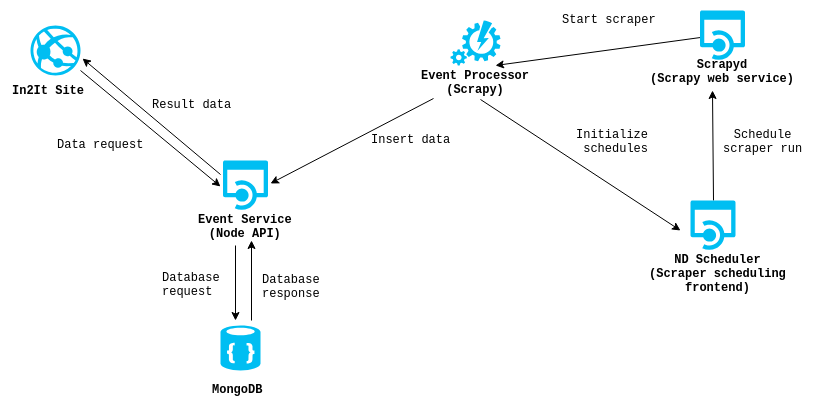
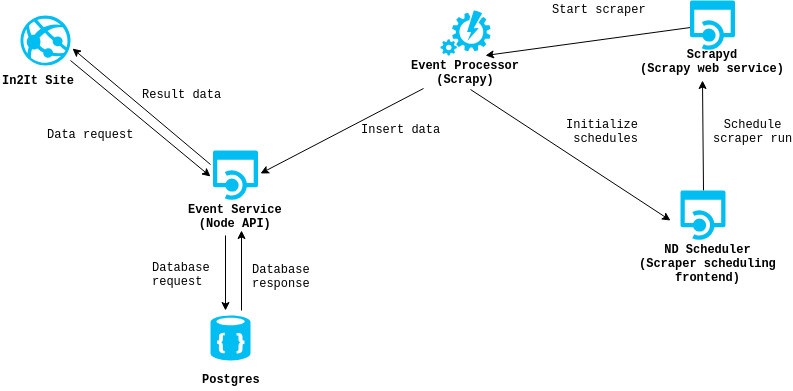
Updated readme, fixed debugging for ndscheduler

diff --git a/readme.md b/readme.md
@@ -26,6 +26,8 @@ View these docs [here](https://clipboardproject.github.io/ClipboardApp/) if you 
 ### Get the Code
 Clone the ClipboardApp repository into your preferred directory with Git Bash on Windows or a normal terminal otherwise: `git clone https://github.com/ClipboardProject/ClipboardApp.git`
 
+If you have any issues, see the troubleshooting guide further down in this document.
+
 ### Install Docker
 For Windows Home, download from [here](https://docs.docker.com/toolbox/toolbox_install_windows/). Documentation is [here](https://docs.docker.com/toolbox/overview/).  
 For Windows Professional or Enterprise, download from [here](https://www.docker.com/docker-windows). Documentation is [here](https://docs.docker.com/docker-for-windows/).  
@@ -81,10 +83,10 @@ Close and reopen your terminal(s) to apply the changes.
 #### Extra Installation Steps for Windows
 I was unable to get Kitematic to work on Docker Toolbox, so I would recommend skipping that. Make sure virtualization is enabled in the BIOS. If you need to change virtualization settings, do a full reboot cycle,
 otherwise Windows may not report that the settings have changed. If you're running Windows 10 Professional, you'll need to make sure Hyper-V is enabled in the "Turn Windows Features On or Off" dialog.
-If you're using Docker Toolbox on Windows Home edition, you'll want to start the VirtualBox instance manually before starting Docker every time or Docker will complain about not having an IP address.
+__IMPORTANT: If you're using Docker Toolbox on Windows Home edition, you'll want to start the VirtualBox instance manually before starting Docker every time or Docker will complain about not having an IP address.__
 
 Additionally, once Docker is installed, you'll need to tweak the VirtualBox settings slightly. Port forwarding must be configured manually to allow the host system to communicate with Docker over `localhost`
-instead of `192.168.99.100`.
+instead of its defualt IP of `192.168.99.100`.
 First, right click on the machine title "default" and select "Settings".
 ![Settings](images/settings.png?raw=true "Settings")
 
@@ -92,13 +94,13 @@ Once in the settings menu, select "Network" and then "Port Forwarding".
 ![Network](images/network.png?raw=true "Network")
 
 Finally, click the green plus on the top right corner and add a new port forwarding rule. The new rule should be configured exactly like "Rule 1" in the following picture, but you can name it whatever.
-This is the minimum amount of configuration needed for the application to work, but you can add the other ports used by the application later if you'd like to be able to connect to everything via `localhost`.
+This is the minimum amount of configuration needed for the application to work, but you can add the other ports used by the application if you'd like to be able to connect to everything via `localhost`. Other ports used by this application are `3000`, `9000`, `5000`, `7000`, and `6800` if you would like to add those now.
 ![PortForwaring](images/portforwarding.png?raw=true "Port Forwarding")
 
 ### Setting Up Docker
 If you are using Linux, all of the subsequent Docker commands in this guide might have to be run with `sudo`. 
 If you would like to be able to use Docker without `sudo`, look through the answers [here](https://askubuntu.com/questions/477551/how-can-i-use-docker-without-sudo). **If you're using Docker Toolbox on Windows Home, 
-all subsequent statements that mention `localhost` should be replaced with `192.168.99.100`**. This is because the Docker engine can't bind to localhost when using Docker Toolbox.
+all subsequent statements that mention `localhost` should be replaced with `192.168.99.100` unless you set up port forwarding for all of the ports mentioned in the previous step**.
 
 Verify that Docker installed correctly with: `docker run hello-world`. You should see, "Hello from Docker!"
 
@@ -111,23 +113,21 @@ from your system's package manager. If your Python version is too old, I recomme
 
 Once Python is set up, run `scripts/install.sh` from the root of the Github repo to install necessary Python dependencies.
 
-Open a Docker terminal on Windows Home, Git Bash or some kind of bash emulator on Windows Professional, or a normal terminal otherwise, and `cd` into the Git repo. Run `./start.bash`. 
-If you get a permissions error, you may need to run `chmod +x start.bash`. This will grant execution permissions to the file. 
+Open a Docker terminal on Windows Home, Git Bash or some kind of bash emulator on Windows Professional, or a normal terminal otherwise, and `cd` into the Git repo. If on Windows, it's probably a good idea to run `scripts/fix-bad-characters.bash` first because Docker behaves strangely when Windows-specific characters are sent to it. You may need to run this again in the future if more Windows characters make it into your files. 
+
+Now, run `./start.sh`. If you get a permissions error, you may need to run `chmod +x start.sh`. This will grant execution permissions to the file. 
 If all goes well, the database will be created, the scrapers will start running, and the website will start up. This process will take some time.
 Eventually, you should start seeing messages about events being saved. Once a message says `Data retrieved successfully`, the code is done running. 
 Several components should be visible now:
 - `localhost` and `localhost:3000` will show the site
 - `localhost:5000/docs` will show a frontend for viewing the data and testing the API
 - `localhost:9000` will show a frontend for managing the Docker containers. Create whatever username and password you want.
+-  `localhost:7000` will show a frontend for managing the Postgres database. The username is `user@domain.com` and the password is `pgadmin`. Instructions on how to connect to the database will be given later in this document.
 
 ### System Architecture
 ![System Architecture](images/In2ItArchitecture.png?raw=true "System Architecture")
 
 ### Setting up your development environment
-
-If you want to see more details about the data in the database, download NoSQL Booster from [here](https://nosqlbooster.com/downloads). You can use another MongoDB client if you'd prefer. Create a connection to `localhost:27017` and 
-you should see the data show up. 
-
 For debugging, we've set up configurations to allow for remote debugging in Docker using VS Code. This allows you to set breakpoints and step through code remotely while it's running in Docker.
 You can use another editor if you'd like, but you'll have to set up remote debugging yourself. Whenever you open VS Code, it creates a directory called `.vscode` which stores local configurations.
 
@@ -141,25 +141,47 @@ the folder structure of the remote and local repository to match. To do so, you 
 
 Once you have VS Code open, you should see a bug icon on the left panel. This contains the debugger settings. If you click the gear icon near the top right of the submenu, it will open a prompt to choose an environment.
 It doesn't matter which one you choose because we'll overwrite this file in a minute. In this repo, there is a folder called `sample_vscode_config` with one config per component. Replace the entire `launch.json` file with
-whatever config matches your current folder. As the comment in the files explain, you will need to replace `localhost` with `192.168.99.100` for Docker Toolbox. 
-Once you have the configuration saved, you'll be able to select it from the debug menu. When you have the code running in Docker, click the green arrow to attach to the running process.
+whatever config matches your current folder. As the comment in the files explains, you will need to replace `localhost` with `192.168.99.100` for Docker Toolbox. 
+Once you have the configuration saved, you'll be able to select it from the debug menu. When you have the code running in Docker, click the green arrow near the top left of VS Code to attach to the running process.
 
 All of the code is running through a program called [nodemon](https://nodemon.io/) which allows you to use hot reloading while debugging. Hot reloading means that any time you change the source code in your editor,
-nodemon will detect the change and automatically restart the attached process. This way, testing your changes requires no manual intervention.
+nodemon will detect the change and automatically restart the attached process. This way, testing your changes requires no manual intervention. You can try it by pressing `CTRL + S` on any source code file while the code is running.
+
+### Configuring pgAdmin
+This is an optional step to view what's going on with the database. This doesn't need to be done immediately, but it may be useful for debugging if things aren't working as expected. 
+
+This step must be done while the code is running and after the database has been initialized (1-2 minutes after the first startup).
+
+Go to pgAdmin at `locahost:7000` and sign in with username `user@domain.com` and password `pgadmin`.
+On the left pane, right click on the node called `Servers` and create a new one as shown below.
+
+![Create Server](images/CreateServer.png?raw=true "Create Server")
+
+Enter whatever name you want for the server. I choose `postgres` because I'm boring.
+
+![Choose Name](images/ChooseName.png?raw=true "Choose Name")
+
+Now, set up the conenection properties. You should enter the properties exactly as shown in the image. The password is `postgres`.
+
+![Create Connection](images/CreateConnection.png?raw=true "Create Connection")
+
+If your database was created successfully, you should see three databases in the left pane now: `events`, `postgres`, and `scheduler`. 
 
 ### Settings
 #### Command Line Arguments
 The following parameters can be passed to `start.bash` to change its runtime behavior. 
 - `-d or --processor-debug`:
-This parameter is needed when using the debugger with the event processor. When passed in, `runner.py` will pause at the start of execution until you connect to it from the VS Code debugger.
+This parameter is needed when using the debugger with the event processor. When passed in, the event processor will pause at the start of execution until you connect to it from the VS Code debugger.
 This isn't needed by the other components because you can attach to a Node process without any special configuration.
 
 - `-v or --verbose-output`
 This tells scrapy to send verbose output to the logs. Otherwise, only errors will be displayed. Scrapy generates a lot of output so this is only useful when debugging odd behavior.
 
 - `-s or --run-scheduler`
-This tells the event processor to run the scrapers on a schedule (currently once a minute in dev and once every two hours in prod). It's easier to test without this flag since it will run them all at once
-when this is not passed in.
+This tells the event processor to run the scrapers on a schedule (currently once a minute in dev and once every two hours in prod). More information about the scheduler will be discussed in a subsequent section.
+
+- `-c or --scheduler-debug`
+This is the same behavior as `-d` but for the scheduler. More information about the scheduler will be discussed in a subsequent section.
 
 #### Other Settings
 The following settings are defined in `event_processor/config.py`:  
@@ -179,7 +201,18 @@ If `True`, any Scrapy calls made will be cached using Scrapy's builtin cache sys
 - **scrapy_cache_expiration**:
 Time in seconds that Scrapy data will be cached for.
 
+### Scheduler
+We've forked a project from Nextdoor called ndscheduler to use as a scheduling system for this project.
+To run the scheduler with this application, the scheduler repository must be checked out into the same parent folder as this one.
+
+To use, run `cd {parent directory of the directory you cloned this repository into}` and then `git clone https://github.com/ClipboardProject/ndscheduler`. The startup scripts in this repository check for the existence of the ndscheduler folder when running. Once this is completed, go back to the `ClipboardApp` folder and run `./start.sh -s` to start the application with the scheduler.
+
+If all goes well, you should be able to navigate to `localhost:8888` and see the scheduler. From there, you can let the scrapers run on a schedule or run them manually with the UI. `localhost:6800` is the url for scrapyd, which is the middleman between the scrapers and ndscheduler.
+
 ## Development Guide
+
+__IMPORTANT: If you're using Windows, please run `git config --global core.autocrlf input` before committing anything. This prevents carriage returns from getting sent to the remote repository.__
+
 Our current development tasks and bugs are kept in the issues list [here](https://github.com/ClipboardProject/ClipboardApp/issues).  
 The easiest way to learn the code base and get started contributing is to add a new scraper as defined in [this](https://github.com/ClipboardProject/ClipboardApp/issues/14) issue.  
 The issue contains instructions on how to pick a specific site.
@@ -193,11 +226,17 @@ This is the heart of the application. It asynchronously scrapes websites and pul
 This is a standalone service that receives data from the event processor for insertion into MongoDB and processes requests from the clipboard site to display data to the user.  
 Any time data is received from a website, the old data from that site is deleted and refreshed with the new data.
 
-- **MongoDB Instance**:
+- **PostgreSQL Instance**:
 This holds a single collection of all data from the sites. Only the database client interacts with the database.
 
 - **In2It Site**:
 The website that displays the aggregated data. Interacts with the database via the database client.
+
+- **ndscheduler**:
+Optional scheduling system to run scrapers periodically.
+
+- **scrapyd**
+ndscheduler calls this to request scraper runs. Once a scraper is requested, scrapyd will start the scraper when resouces become available.
 
 ### Getting Started
 As stated previously, adding a scraper is the best way to start contributing. If you're not familiar with web scraping,
@@ -248,10 +287,29 @@ For each item, you'll want to parse out the following data (as much as is availa
 - **`category`**: Category of event, as defined [here](https://github.com/ClipboardProject/ClipboardApp/blob/master/event_processor/categories.py). (Work in progress. We'll flesh out categories more eventually)  
 - **Start/End Time and Date**: Dates and times can be supplied with several parameters. Choose one date formate and one time format. Eventually, all dates and times will be converted into Unix timestamps.
     - **`time`**: Use if only one time is supplied for the event (not time range)
-    - **`start_Time` and `End_Time`**: Use if the site supplies distinct data for these two values
+    - **`start_time` and `end_time`**: Use if the site supplies distinct data for these two values
     - **`time_Range`**: Use if the start and end time is supplied in a single string ex: 6:00-8:00 PM
     - **`date`**:  Use if the event could be one day or multiple days but it is contained in a single string. This is done this way because some sites have data that could be single days or multiple days.
     - **`start_date` and `end_date`**: Use if the site supplies distinct data for these two values
     - **`start_timestamp` and `end_timestamp`**: Use if the data is formatted like a Unix timestamp (Unlikely for scrapers but possible for an API)
 
 Once you've decided how to find these fields for your site, look at the existing examples to see what methods to use to extract the data.
+
+## Troubleshooting Guide
+__Weird errors are occuring when I start up the code__
+
+- First of all, try it at least two or three times. Docker tries to start all services simultaneously and occassionally things just get stuck in a weird state.
+
+- This could obviously be caused by many things, but the common cause of most errors are bad characters in files (on Windows) or bad cache data. Docker can behave strangely sometimes when Windows-specific characters are sent into it. The first thing to try on Windows when weirdness occurs is to run `scripts/fix-bad-characters.bash`. To reduce the chance of this being needed, you can change VS Code's line ending behavior to use only line feed instead of carriage return + line feed. More information on this [here](https://stackoverflow.com/questions/39525417/visual-studio-code-how-to-show-line-endings).
+
+- If bad characters aren't the problem, you can clean up your docker system. First run `docker-compose down` to make sure no containers are running, then run `docker system prune`.
+If that isn't enough, deleting the image of the offending service may be needed. `docker image rm {image name}` will do that. If that doesn't work, you can delete the volume associated with an image by running `docker volume rm {volume name}`. If you don't feel like figuring out which service is causing the issue, `docker system prune -a` will wipe out all images, and `docker volume prune` will wipe out all volumes. Keep in mind that volumes are what stores persistent data so be careful about data loss.
+
+__Services aren't restarting properly with nodemon after saving__
+- Sometimes nodemon restarts the service too quickly and doesn't allow time for ports to deallocate before reallocating them. Give it a kick by hitting `CTRL + S` on a source file one or two more times and it should start properly. This is a bug that we hope to resolve sometime soon-ish.
+
+__Docker says that it can't start because ports are already allocated__
+- You may have old containers running that weren't stopped previously. Run `docker-compose down` to stop them, or if that doesn't work, stop them manually one by one. If that doesn't work. Other applications may be using those ports and must be stoppped first.
+
+__When starting Docker on Windows, it complains about not having an IP address__
+- The VirtualBox VM will likely need to be started manually every time before starting Docker because it takes too long to start up and Docker times out while waiting for it.
